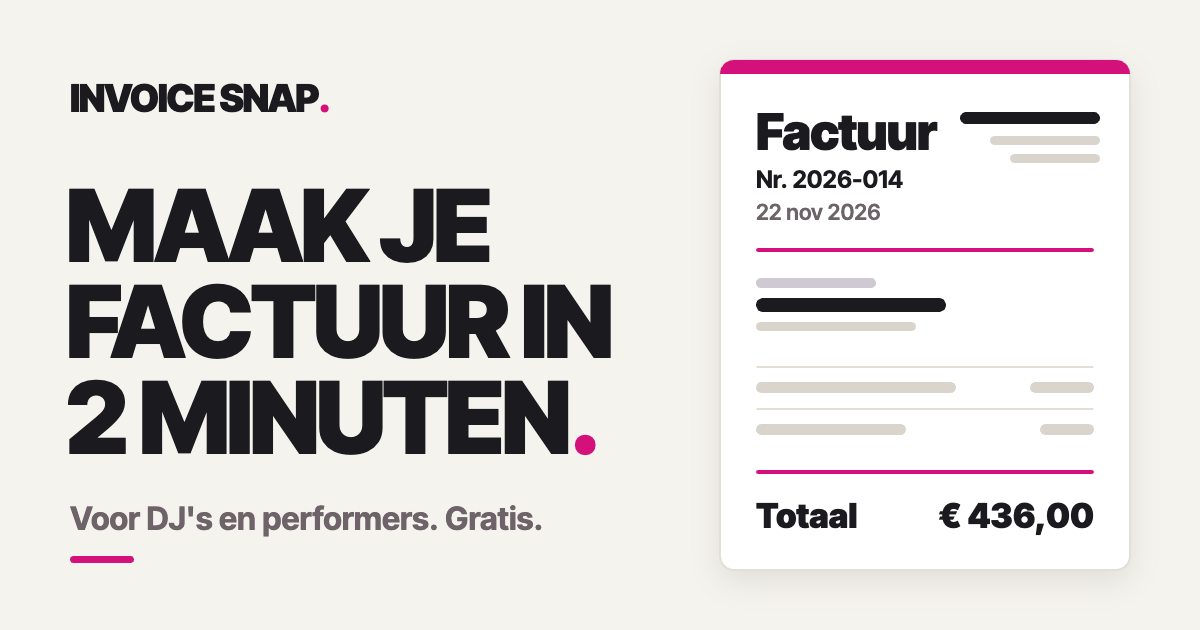
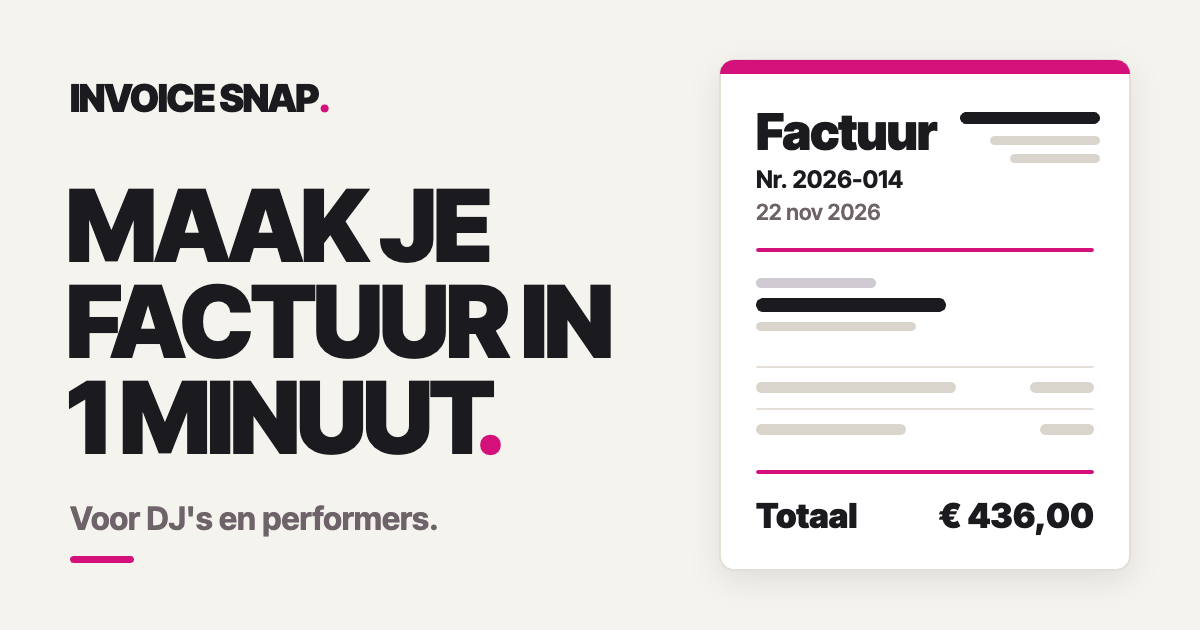
Invoice Snap: share image says 1 minute, no 'gratis'

Changed region(s): [[0.0308, 0.6032, 0.4933, 0.7238], [0.37, 0.7841, 0.4625, 0.8444]]

diff --git a/invoicesnap/index.html b/invoicesnap/index.html
@@ -5,21 +5,21 @@
 <meta name="viewport" content="width=device-width, initial-scale=1">
 <meta name="robots" content="noindex,nofollow">
 <title>Invoice Snap</title>
-<meta name="description" content="Maak in 2 minuten een nette factuur met betaal-QR. Voor DJ's en performers. Je gegevens blijven in je eigen browser.">
+<meta name="description" content="Maak in 1 minuut een nette factuur met betaal-QR. Voor DJ's en performers. Je gegevens blijven in je eigen browser.">
 <link rel="canonical" href="https://freycreates.nl/invoicesnap/">
 <meta property="og:type" content="website">
 <meta property="og:url" content="https://freycreates.nl/invoicesnap/">
 <meta property="og:site_name" content="FREY.">
 <meta property="og:locale" content="nl_NL">
 <meta property="og:title" content="Invoice Snap | Factuur maken voor DJ's en performers">
-<meta property="og:description" content="Maak in 2 minuten een nette factuur met betaal-QR. Voor DJ's en performers. Je gegevens blijven in je eigen browser.">
+<meta property="og:description" content="Maak in 1 minuut een nette factuur met betaal-QR. Voor DJ's en performers. Je gegevens blijven in je eigen browser.">
 <meta property="og:image" content="https://freycreates.nl/invoicesnap/assets/invoice-snap-share.png">
 <meta property="og:image:width" content="1200">
 <meta property="og:image:height" content="630">
-<meta property="og:image:alt" content="Invoice Snap: Maak je factuur in 2 minuten, met een voorbeeld van een nette factuur">
+<meta property="og:image:alt" content="Invoice Snap: Maak je factuur in 1 minuut, met een voorbeeld van een nette factuur">
 <meta name="twitter:card" content="summary_large_image">
 <meta name="twitter:title" content="Invoice Snap | Factuur maken voor DJ's en performers">
-<meta name="twitter:description" content="Maak in 2 minuten een nette factuur met betaal-QR. Voor DJ's en performers. Je gegevens blijven in je eigen browser.">
+<meta name="twitter:description" content="Maak in 1 minuut een nette factuur met betaal-QR. Voor DJ's en performers. Je gegevens blijven in je eigen browser.">
 <meta name="twitter:image" content="https://freycreates.nl/invoicesnap/assets/invoice-snap-share.png">
 <link rel="icon" type="image/png" sizes="32x32" href="assets/icon-32.png">
 <link rel="icon" type="image/png" sizes="48x48" href="assets/icon-48.png">
